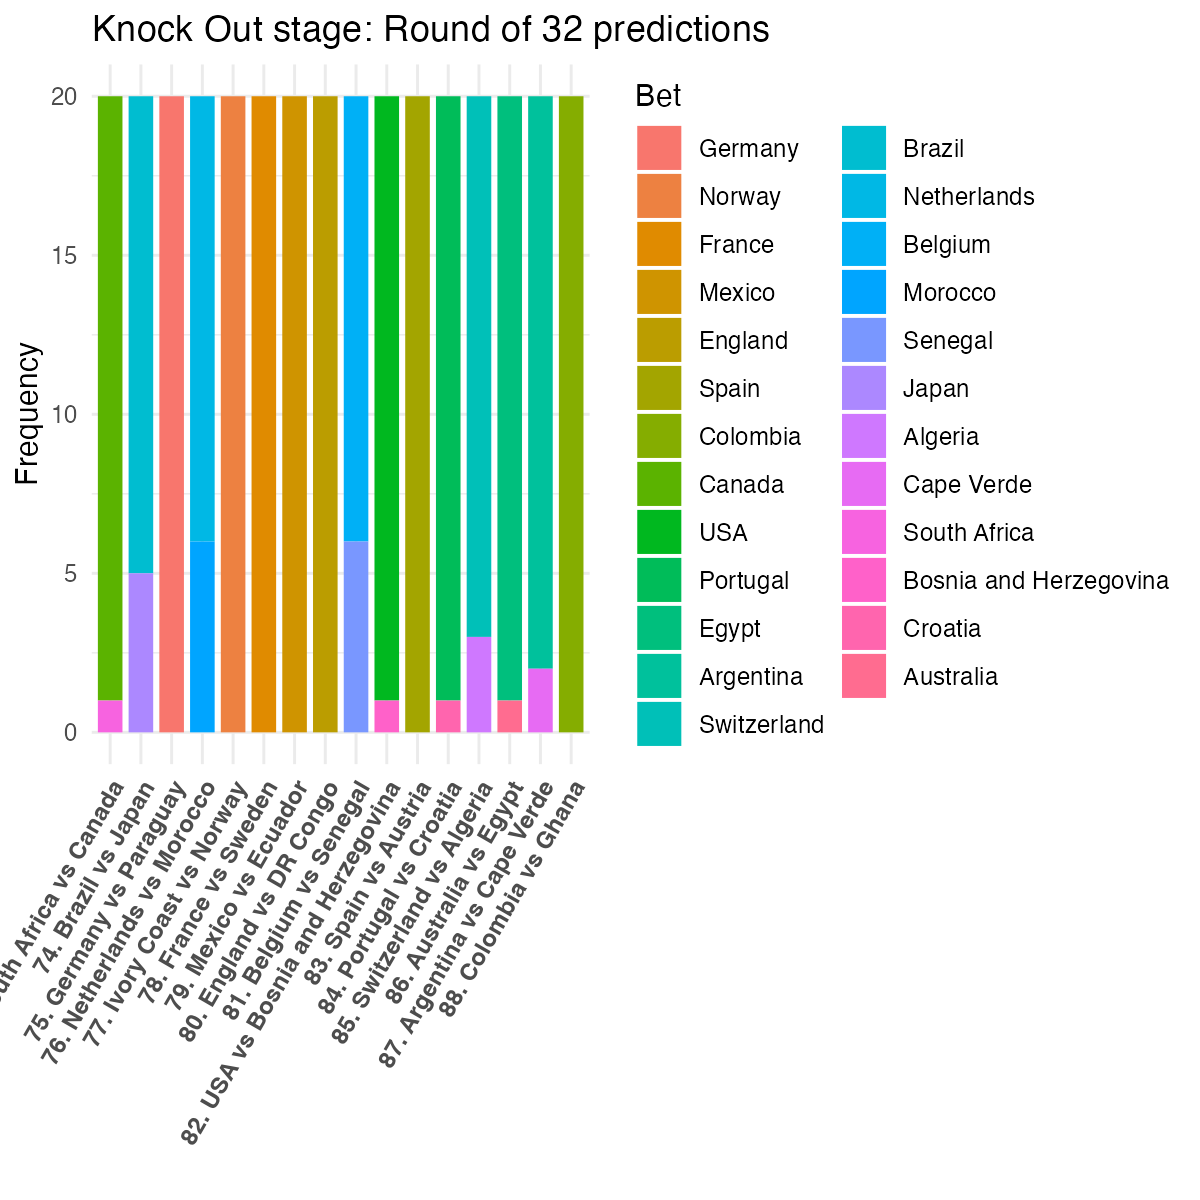
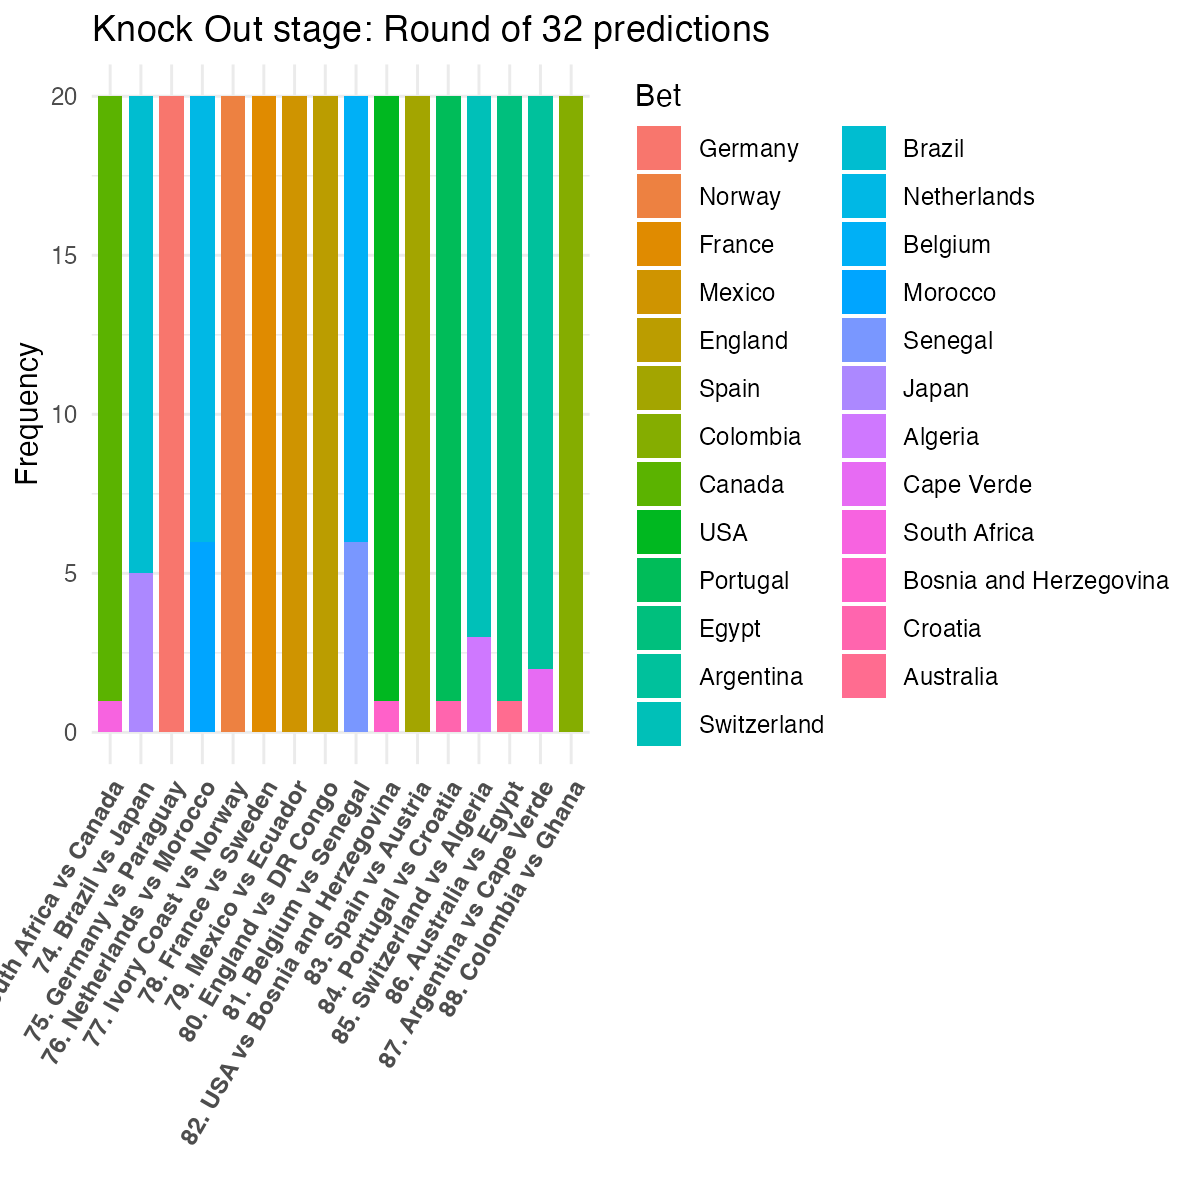
automatic README update

diff --git a/README.md b/README.md
@@ -1,4 +1,4 @@
-Last Update: Fri  3 Jul 2026 16:57:08 EDT
+Last Update: Sat  4 Jul 2026 12:26:24 EDT
 # **CANADA-USA-MEXICO FIFA WORLD CUP 2026**
 
 <p align=center>
@@ -16,26 +16,26 @@ FIFA World Cup 2026 results
  ## Total Scores
 | Participant_ID | Name                          | GS1 | GS2 | GS3 | K16 | K16_bonus | Total |
 | -------------- | ----------------------------- | --- | --- | --- | --- | --------- | ----- |
-| 003            | Valentin OURRY                | 15  | 17  | 16  | 12  | 8         | 68    |
-| 006            | Luis L                        | 12  | 17  | 15  | 12  | 6         | 62    |
-| 007            | Rodrigo                       | 13  | 16  | 16  | 12  | 5         | 62    |
-| 011            | Ernesto                       | 14  | 17  | 17  | 12  | 2         | 62    |
-| 012            | Roberto Ponce                 | 13  | 18  | 15  | 11  | 4         | 61    |
-| 001            | Jonathan Gallego              | 13  | 17  | 16  | 12  | 2         | 60    |
-| 016            | Ruben G                       | 13  | 16  | 15  | 12  | 4         | 60    |
-| 002            | Alfonso Fajardo               | 13  | 15  | 16  | 12  | 2         | 58    |
-| 009            | Vladi                         | 12  | 14  | 16  | 12  | 3         | 57    |
-| 018            | Mariel                        | 14  | 16  | 13  | 12  | 2         | 57    |
-| 013            | Héctor Zepeda                | 13  | 15  | 15  | 9   | 4         | 56    |
-| 015            | Claudio                       | 14  | 16  | 13  | 11  | 2         | 56    |
-| 005            | Ruben Sanchez Corona          | 13  | 14  | 15  | 12  | 1         | 55    |
-| 017            | HABIB E                       | 11  | 16  | 12  | 11  | 5         | 55    |
-| 010            | Daniel Jimenez Gomez          | 11  | 15  | 16  | 11  | 1         | 54    |
-| 019            | Jhonatan Omar Romero Becerril | 11  | 14  | 14  | 12  | 3         | 54    |
-| 014            | Ahmed Felfel                  | 14  | 15  | 13  | 10  | 1         | 53    |
-| 020            | Julian                        | 9   | 15  | 14  | 11  | 3         | 52    |
-| 008            | Gov                           | 7   | 15  | 12  | 13  | 3         | 50    |
-| 004            | Jalil Rasgado Toledo          | 11  | 15  | 11  | 9   | 2         | 48    |
+| 003            | Valentin OURRY                | 15  | 17  | 16  | 14  | 8         | 70    |
+| 006            | Luis L                        | 12  | 17  | 15  | 14  | 6         | 64    |
+| 007            | Rodrigo                       | 13  | 16  | 16  | 14  | 5         | 64    |
+| 011            | Ernesto                       | 14  | 17  | 17  | 14  | 2         | 64    |
+| 001            | Jonathan Gallego              | 13  | 17  | 16  | 14  | 3         | 63    |
+| 012            | Roberto Ponce                 | 13  | 18  | 15  | 13  | 4         | 63    |
+| 016            | Ruben G                       | 13  | 16  | 15  | 14  | 5         | 63    |
+| 002            | Alfonso Fajardo               | 13  | 15  | 16  | 14  | 2         | 60    |
+| 009            | Vladi                         | 12  | 14  | 16  | 14  | 3         | 59    |
+| 015            | Claudio                       | 14  | 16  | 13  | 13  | 3         | 59    |
+| 018            | Mariel                        | 14  | 16  | 13  | 14  | 2         | 59    |
+| 005            | Ruben Sanchez Corona          | 13  | 14  | 15  | 14  | 1         | 57    |
+| 013            | Héctor Zepeda                | 13  | 15  | 15  | 10  | 4         | 57    |
+| 017            | HABIB E                       | 11  | 16  | 12  | 13  | 5         | 57    |
+| 010            | Daniel Jimenez Gomez          | 11  | 15  | 16  | 13  | 1         | 56    |
+| 014            | Ahmed Felfel                  | 14  | 15  | 13  | 12  | 2         | 56    |
+| 019            | Jhonatan Omar Romero Becerril | 11  | 14  | 14  | 14  | 3         | 56    |
+| 020            | Julian                        | 9   | 15  | 14  | 13  | 3         | 54    |
+| 008            | Gov                           | 7   | 15  | 12  | 14  | 3         | 51    |
+| 004            | Jalil Rasgado Toledo          | 11  | 15  | 11  | 11  | 2         | 50    |
 
 Tie-Breaker 1 : Which team will win the world cup?
 
@@ -153,6 +153,50 @@ Noticeable players in this round:
 | Gov                  | 008            |
 | Jalil Rasgado Toledo | 004            |
 | Mariel g             | 018            |
+
+ ## <u>**Group Stage 2 (GS2) Picks**</u>
+ 
+ 
+| Name                          | Participant_ID | 25.  Czechia vs South Africa | 26. Switzerland vs  Bosnia and Herzegovina | 27. Canada vs Qatar | 28. Mexico vs South Korea | 29. USA vs Australia | 30. Scotland vs Morocco | 31.  Brazil vs Haiti | 32. Türkiye vs Paraguay | 33. Netherlands vs Sweden | 34. Germany vs Ivory Coast | 35. Ecuador vs Curaçao | 36. Tunisia vs Japan | 37. Spain vs Saudi Arabia | 38.  Belgium vs Iran | 39. Uruguay vs Cape Verde | 40. New Zealand vs Egypt | 41 Argentina vs Austria | 42. France vs Iraq | 43. Norway vs Senegal | 44. Jordan vs Algeria | 45. Portugal vs Usbekistan | 46. England vs Ghana | 47. Panama vs Croatia | 48. Colombia vs DR Congo |
+| ----------------------------- | -------------- | ---------------------------- | ------------------------------------------ | ------------------- | ------------------------- | -------------------- | ----------------------- | -------------------- | ----------------------- | ------------------------- | -------------------------- | ---------------------- | -------------------- | ------------------------- | -------------------- | ------------------------- | ------------------------ | ----------------------- | ------------------ | --------------------- | --------------------- | -------------------------- | -------------------- | --------------------- | ------------------------ |
+| Jonathan Gallego              | 001            | Czechia                      | Switzerland                                | Canada              | Mexico                    | USA                  | Morocco                 | Brazil               | Türkiye                | Netherlands               | Germany                    | Ecuador                | Japan                | Spain                     | Belgium              | Uruguay                   | Egypt                    | Argentina               | France             | Draw                  | Algeria               | Portugal                   | England              | Croatia               | Colombia                 |
+| Alfonso Fajardo               | 002            | Czechia                      | Draw                                       | Canada              | Mexico                    | USA                  | Morocco                 | Brazil               | Türkiye                | Draw                      | Germany                    | Ecuador                | Japan                | Spain                     | Belgium              | Uruguay                   | New Zealand              | Argentina               | France             | Norway                | Algeria               | Portugal                   | England              | Croatia               | Colombia                 |
+| Valentin OURRY                | 003            | Draw                         | Switzerland                                | Canada              | Mexico                    | USA                  | Morocco                 | Brazil               | Türkiye                | Draw                      | Germany                    | Ecuador                | Japan                | Spain                     | Belgium              | Uruguay                   | Egypt                    | Argentina               | France             | Draw                  | Algeria               | Portugal                   | England              | Croatia               | Colombia                 |
+| Jalil Rasgado Toledo          | 004            | Czechia                      | Draw                                       | Canada              | Mexico                    | USA                  | Morocco                 | Brazil               | Draw                    | Netherlands               | Germany                    | Ecuador                | Japan                | Spain                     | Belgium              | Uruguay                   | Draw                     | Argentina               | France             | Norway                | Draw                  | Portugal                   | England              | Croatia               | Colombia                 |
+| Ruben Sanchez Corona          | 005            | Czechia                      | Draw                                       | Canada              | Mexico                    | USA                  | Morocco                 | Brazil               | Türkiye                | Draw                      | Germany                    | Ecuador                | Japan                | Spain                     | Belgium              | Uruguay                   | Draw                     | Argentina               | France             | Norway                | Draw                  | Portugal                   | England              | Croatia               | Colombia                 |
+| Luis L                        | 006            | Czechia                      | Switzerland                                | Canada              | South Korea               | USA                  | Morocco                 | Brazil               | Paraguay                | Netherlands               | Germany                    | Ecuador                | Japan                | Spain                     | Belgium              | Uruguay                   | Egypt                    | Argentina               | France             | Norway                | Algeria               | Portugal                   | England              | Croatia               | Draw                     |
+| Rodrigo                       | 007            | Czechia                      | Switzerland                                | Canada              | Mexico                    | USA                  | Morocco                 | Brazil               | Draw                    | Draw                      | Germany                    | Ecuador                | Japan                | Spain                     | Belgium              | Uruguay                   | Egypt                    | Argentina               | France             | Draw                  | Algeria               | Portugal                   | England              | Croatia               | Colombia                 |
+| Gov                           | 008            | Czechia                      | Draw                                       | Canada              | Draw                      | Australia            | Morocco                 | Brazil               | Türkiye                | Netherlands               | Germany                    | Ecuador                | Japan                | Spain                     | Belgium              | Draw                      | Egypt                    | Argentina               | France             | Norway                | Algeria               | Portugal                   | England              | Croatia               | DR Congo                 |
+| Vladi                         | 009            | Draw                         | Bosnia and Herzegovina                     | Canada              | Draw                      | Draw                 | Morocco                 | Brazil               | Draw                    | Netherlands               | Germany                    | Ecuador                | Draw                 | Spain                     | Belgium              | Uruguay                   | Egypt                    | Argentina               | France             | Draw                  | Algeria               | Portugal                   | England              | Croatia               | Colombia                 |
+| Daniel Jimenez Gomez          | 010            | Czechia                      | Switzerland                                | Canada              | Draw                      | Draw                 | Morocco                 | Brazil               | Türkiye                | Netherlands               | Germany                    | Ecuador                | Japan                | Spain                     | Belgium              | Uruguay                   | Egypt                    | Argentina               | France             | Norway                | Jordan                | Portugal                   | England              | Croatia               | Colombia                 |
+| Ernesto                       | 011            | Czechia                      | Switzerland                                | Canada              | Mexico                    | USA                  | Morocco                 | Brazil               | Türkiye                | Netherlands               | Germany                    | Ecuador                | Japan                | Spain                     | Belgium              | Uruguay                   | Egypt                    | Argentina               | France             | Draw                  | Algeria               | Portugal                   | England              | Croatia               | Colombia                 |
+| Roberto Ponce                 | 012            | Czechia                      | Switzerland                                | Canada              | Mexico                    | USA                  | Morocco                 | Brazil               | Draw                    | Netherlands               | Germany                    | Ecuador                | Japan                | Spain                     | Belgium              | Uruguay                   | Egypt                    | Argentina               | France             | Norway                | Algeria               | Portugal                   | England              | Croatia               | Colombia                 |
+| Héctor Zepeda                | 013            | Czechia                      | Draw                                       | Canada              | Draw                      | USA                  | Morocco                 | Brazil               | Draw                    | Netherlands               | Germany                    | Ecuador                | Japan                | Spain                     | Belgium              | Uruguay                   | Egypt                    | Argentina               | France             | Draw                  | Algeria               | Portugal                   | England              | Croatia               | Colombia                 |
+| Ahmed Felfel                  | 014            | Czechia                      | Switzerland                                | Canada              | Draw                      | USA                  | Morocco                 | Brazil               | Türkiye                | Netherlands               | Germany                    | Ecuador                | Draw                 | Spain                     | Belgium              | Uruguay                   | Egypt                    | Argentina               | France             | Draw                  | Algeria               | Portugal                   | England              | Croatia               | Colombia                 |
+| Claudio                       | 015            | Czechia                      | Switzerland                                | Canada              | Draw                      | USA                  | Morocco                 | Brazil               | Türkiye                | Netherlands               | Germany                    | Ecuador                | Japan                | Spain                     | Belgium              | Uruguay                   | Egypt                    | Argentina               | France             | Draw                  | Algeria               | Portugal                   | England              | Croatia               | Colombia                 |
+| Ruben G                       | 016            | Czechia                      | Switzerland                                | Canada              | Draw                      | USA                  | Morocco                 | Brazil               | Draw                    | Netherlands               | Germany                    | Ecuador                | Japan                | Spain                     | Belgium              | Uruguay                   | Egypt                    | Argentina               | France             | Draw                  | Algeria               | Portugal                   | England              | Croatia               | Colombia                 |
+| HABIB E                       | 017            | Czechia                      | Switzerland                                | Canada              | Mexico                    | Draw                 | Morocco                 | Brazil               | Draw                    | Draw                      | Germany                    | Ecuador                | Japan                | Spain                     | Belgium              | Uruguay                   | Egypt                    | Argentina               | France             | Norway                | Algeria               | Portugal                   | England              | Croatia               | Colombia                 |
+| Mariel                        | 018            | Czechia                      | Switzerland                                | Canada              | Draw                      | USA                  | Morocco                 | Brazil               | Türkiye                | Draw                      | Germany                    | Ecuador                | Japan                | Spain                     | Belgium              | Uruguay                   | Egypt                    | Argentina               | France             | Norway                | Algeria               | Portugal                   | England              | Croatia               | Colombia                 |
+| Jhonatan Omar Romero Becerril | 019            | Czechia                      | Switzerland                                | Canada              | Mexico                    | USA                  | Morocco                 | Brazil               | Draw                    | Draw                      | Germany                    | Ecuador                | Draw                 | Spain                     | Belgium              | Uruguay                   | Egypt                    | Argentina               | France             | Draw                  | Draw                  | Portugal                   | England              | Croatia               | Colombia                 |
+| Julian                        | 020            | Czechia                      | Switzerland                                | Canada              | Mexico                    | USA                  | Draw                    | Brazil               | Draw                    | Netherlands               | Germany                    | Ecuador                | Japan                | Spain                     | Belgium              | Uruguay                   | Draw                     | Argentina               | France             | Norway                | Draw                  | Portugal                   | England              | Croatia               | Colombia                 |
+### Plots
+<img src=media/picks_GS2.png alt=picks width=400/> 
+### Picks Similarities
+
+<img src=media/similarities_GS2.png alt=similarities width=600/> 
+
+---
+Noticeable players in this round:
+
+
+
+| Name                 | Participant_ID |
+| -------------------- | -------------- |
+| Gov                  | 008            |
+| Vladi                | 009            |
+| Julian               | 020            |
+| Ruben Sanchez Corona | 005            |
+| Luis L               | 006            |
 
  ## <u>**Group Stage 2 (GS2) Picks**</u>
  